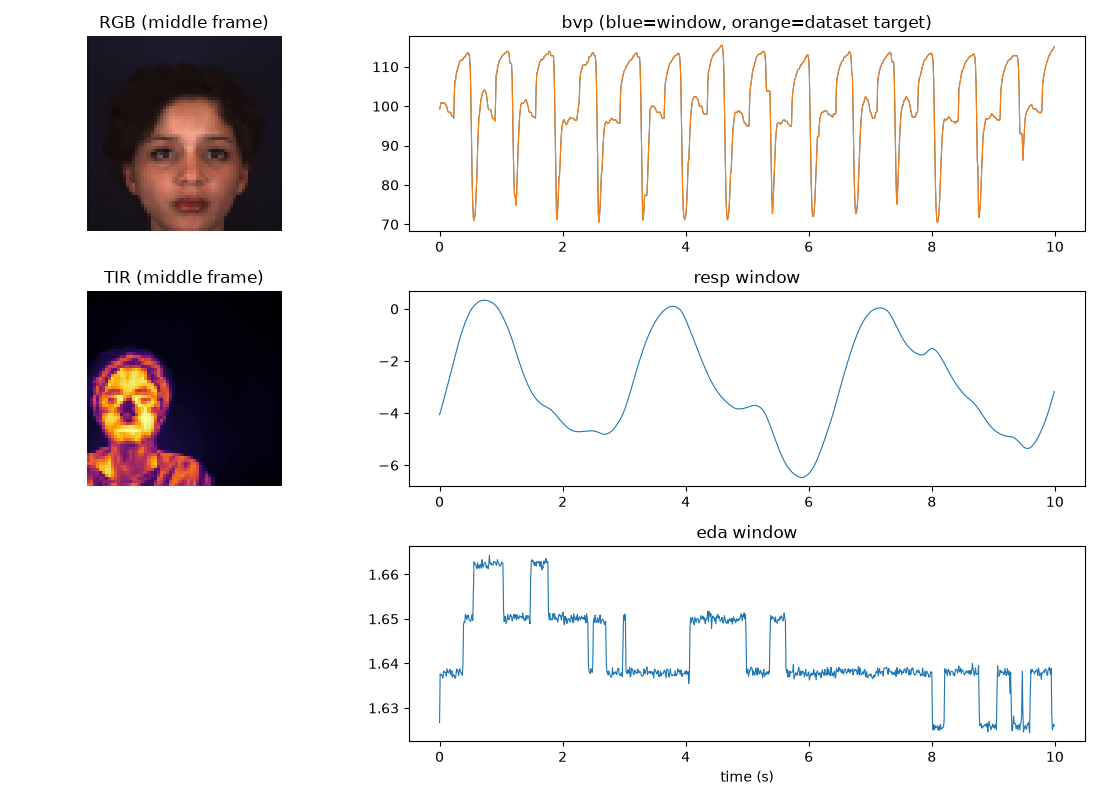
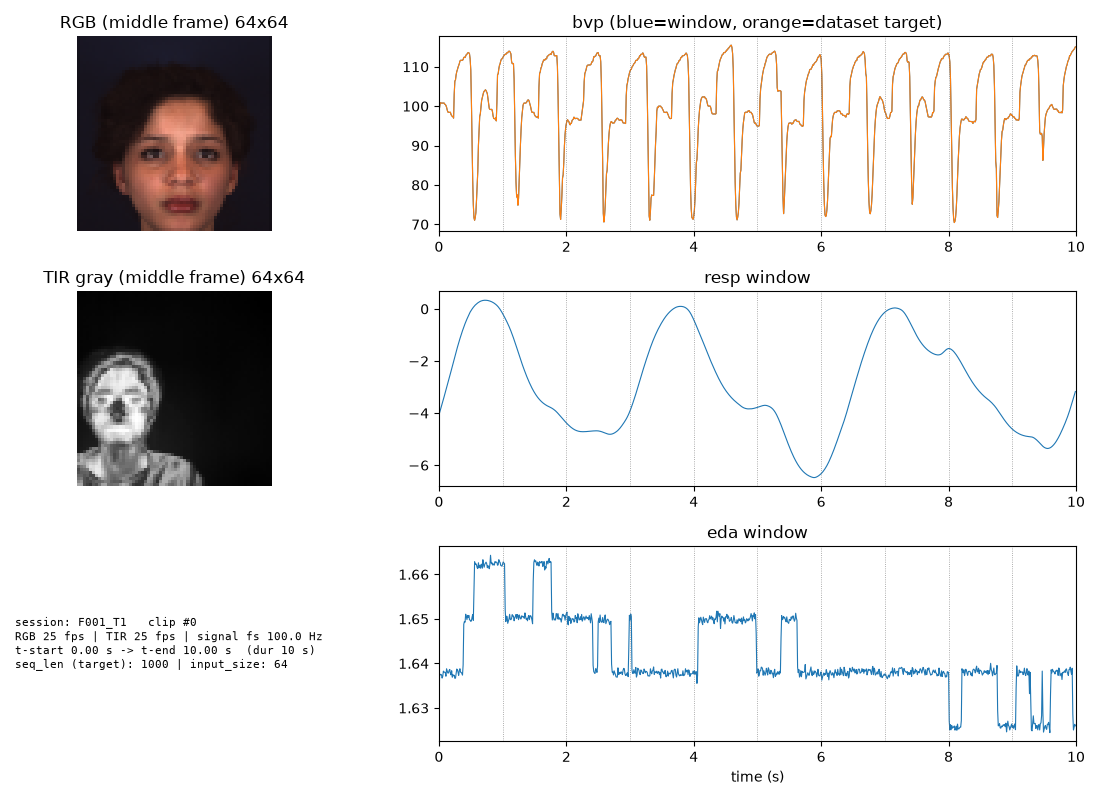
update on the data inspect

diff --git a/code/runners/run_inspect_data.py b/code/runners/run_inspect_data.py
@@ -199,12 +199,21 @@ def _make_figure(args, ds, clip, sig_cols, sig_fs):
     n_win = int(round(dur * fs))
     fig, axes = plt.subplots(3, 2, figsize=(11, 8),
                              gridspec_kw={'width_ratios': [1, 2]})
-    axes[0, 0].imshow(rgb); axes[0, 0].set_title('RGB (middle frame)'); axes[0, 0].axis('off')
-    axes[1, 0].imshow(tir, cmap='inferno'); axes[1, 0].set_title('TIR (middle frame)'); axes[1, 0].axis('off')
+    axes[0, 0].imshow(rgb)
+    axes[0, 0].set_title(f'RGB (middle frame) {rgb.shape[0]}x{rgb.shape[1]}')
+    axes[0, 0].axis('off')
+    axes[1, 0].imshow(tir, cmap='gray')
+    axes[1, 0].set_title(f'TIR gray (middle frame) {tir.shape[0]}x{tir.shape[1]}')
+    axes[1, 0].axis('off')
     axes[2, 0].axis('off')
 
     t_tgt = np.arange(target.size) / args.fs
     names = ['bvp', 'resp', 'eda']
+    # vertical reference lines (every second) + shared x-range so the panels
+    # line up: lets you eyeball that blue (raw window) and orange (resampled
+    # dataset target) features occur at the same times in every row
+    step = 1.0
+    refs = np.arange(0.0, args.clip_duration, step)
     for row, col in enumerate(names):
         ax = axes[row, 1]
         if col in sig_cols:
@@ -213,10 +222,29 @@ def _make_figure(args, ds, clip, sig_cols, sig_fs):
             ax.plot(t_ax, seg, lw=0.8, color='tab:blue')
         if col == args.target:
             ax.plot(t_tgt, target, lw=0.8, color='tab:orange')
+        for t in refs:
+            ax.axvline(t, color='0.4', lw=0.6, ls=':', alpha=0.7)
+        ax.set_xlim(0, args.clip_duration)
         ax.set_title(f'{col} (blue=window, orange=dataset target)'
                      if col == args.target else f'{col} window')
         if row == 2:
             ax.set_xlabel('time (s)')
+
+    # --- metadata block in the empty bottom-left panel ---------------------- #
+    meta = ds.entries[idx][0]                      # full per-session meta
+    tir_fps = meta.get('tir_fps') or args.fps      # actual TIR frame rate
+    sig_fs = fs or args.fs                         # signal sample rate in use
+    t_end = t0 + args.clip_duration
+    info = [
+        f'session: {session}   clip #{idx}',
+        f'RGB {args.fps:.0f} fps | TIR {tir_fps:.0f} fps | signal fs {sig_fs:.1f} Hz',
+        f't-start {t0:.2f} s -> t-end {t_end:.2f} s  (dur {args.clip_duration:.0f} s)',
+        f'seq_len (target): {target.size} | input_size: {args.input_size}',
+    ]
+    axes[2, 0].axis('off')
+    axes[2, 0].text(0.0, 0.5, '\n'.join(info),
+                    transform=axes[2, 0].transAxes,
+                    ha='left', va='center', fontsize=8, family='monospace')
 
     fig.tight_layout()
     path = os.path.join(args.output_dir, f'fig_{session}_clip{idx}.png')
